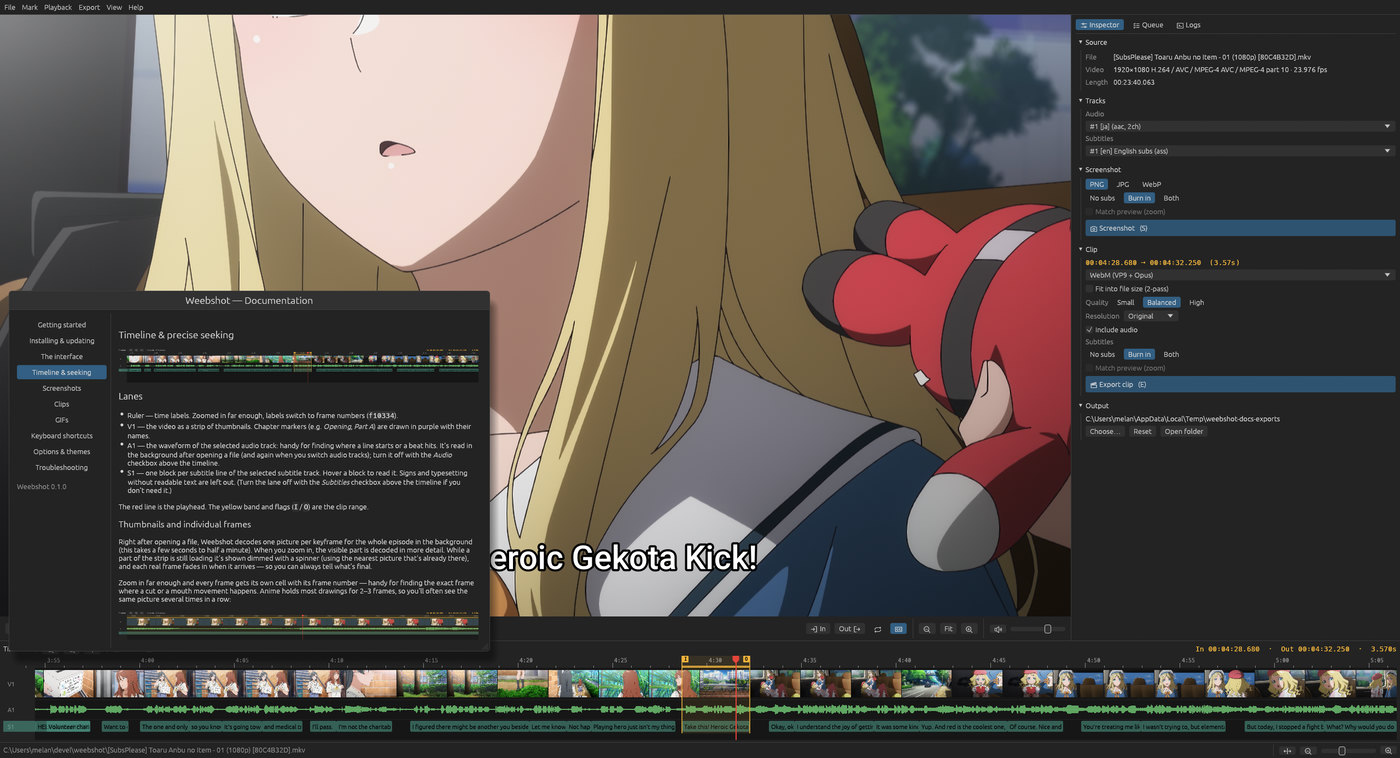
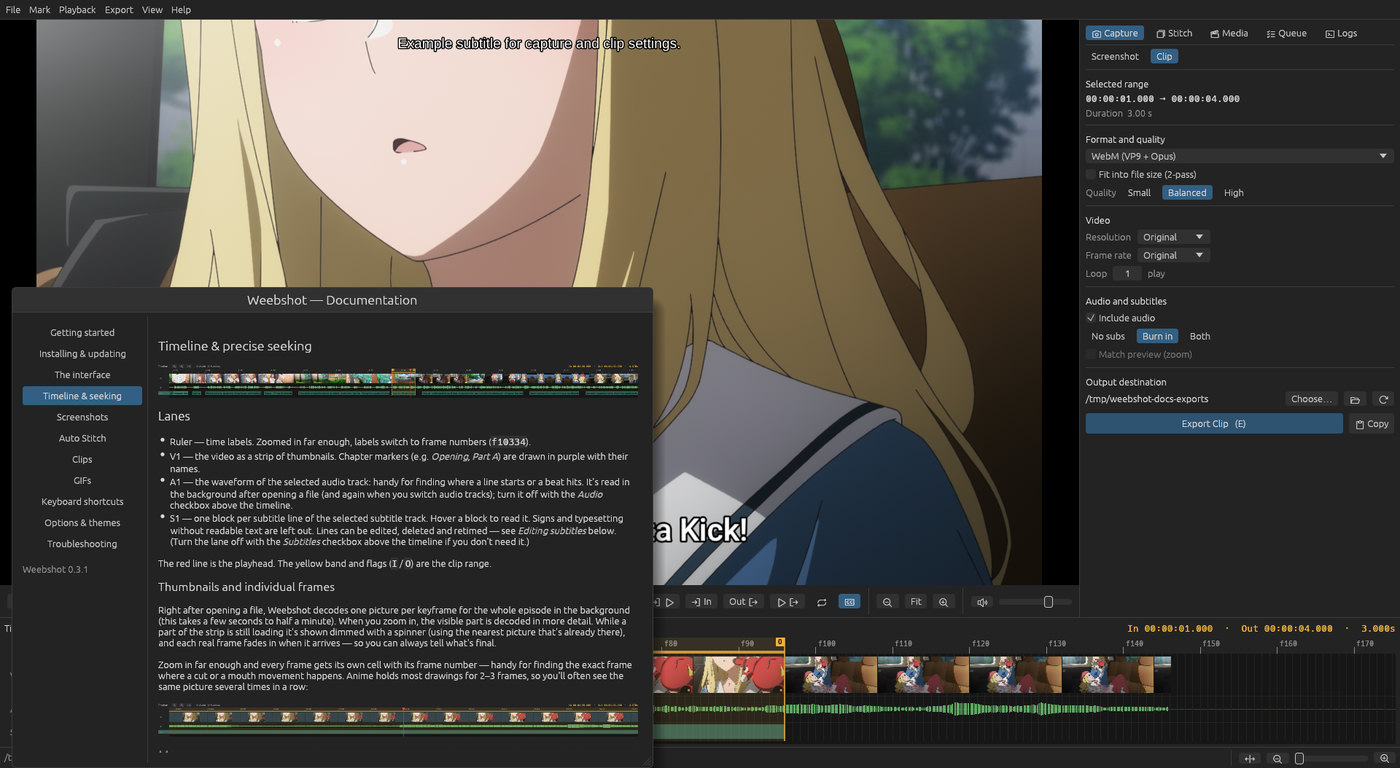
Document sidebar workflows, clipboard actions and stream copy

diff --git a/src/app/shots.rs b/src/app/shots.rs
@@ -182,7 +182,10 @@ impl App {
                 let path = script.out_dir.join(name);
                 let ppp = ctx.pixels_per_point();
                 match save(&img, rect, ppp, &path) {
-                    Ok(()) => log::info("docs", format!("saved {}", path.display())),
+                    Ok(bytes) => {
+                        ctx.include_bytes(format!("bytes://docs/images/{name}"), bytes);
+                        log::info("docs", format!("saved {}", path.display()));
+                    }
                     Err(e) => log::error("docs", format!("{}: {e}", path.display())),
                 }
                 self.advance();
@@ -247,8 +250,11 @@ impl App {
                 self.ui.capture_mode = super::sidebar::CaptureMode::Clip;
                 self.settings.clip_format = ClipFormat::Webm;
                 let mid = (a + b) / 2.0;
-                self.timeline
-                    .zoom_to(mid - 30.0, mid + 30.0, self.player.duration);
+                self.timeline.zoom_to(
+                    (mid - 30.0).max(0.0),
+                    (mid + 30.0).min(self.player.duration),
+                    self.player.duration,
+                );
             }
             Scene::TimelineFrames => {
                 self.timeline
@@ -257,8 +263,11 @@ impl App {
             Scene::MarkerDrag => {
                 // As if the Out flag were being dragged: the viewer shows the Out frame.
                 let mid = (a + b) / 2.0;
-                self.timeline
-                    .zoom_to(mid - 30.0, mid + 30.0, self.player.duration);
+                self.timeline.zoom_to(
+                    (mid - 30.0).max(0.0),
+                    (mid + 30.0).min(self.player.duration),
+                    self.player.duration,
+                );
                 let out = b - 1.0 / self.player.fps;
                 self.player.seek(out, true);
                 let shown = self.script.as_ref().map_or(mid, |s| s.shown);
@@ -274,8 +283,11 @@ impl App {
                 self.settings.side_tab = SideTab::Capture;
                 self.ui.capture_mode = super::sidebar::CaptureMode::Clip;
                 let mid = (a + b) / 2.0;
-                self.timeline
-                    .zoom_to(mid - 30.0, mid + 30.0, self.player.duration);
+                self.timeline.zoom_to(
+                    (mid - 30.0).max(0.0),
+                    (mid + 30.0).min(self.player.duration),
+                    self.player.duration,
+                );
             }
             Scene::Queue => {
                 self.settings.clip_format = ClipFormat::Webm;
@@ -310,7 +322,7 @@ fn save(
     crop: Option<Rect>,
     ppp: f32,
     path: &std::path::Path,
-) -> anyhow::Result<()> {
+) -> anyhow::Result<Vec<u8>> {
     let [w, h] = img.size;
     let rgba: Vec<u8> = img.pixels.iter().flat_map(|c| c.to_array()).collect();
     let mut full = image::RgbaImage::from_raw(w as u32, h as u32, rgba)
@@ -328,8 +340,9 @@ fn save(
         full = image::imageops::resize(&full, max_w, nh, image::imageops::FilterType::Lanczos3);
     }
     let rgb = image::DynamicImage::ImageRgba8(full).to_rgb8();
-    let file = std::fs::File::create(path)?;
-    let mut enc = image::codecs::jpeg::JpegEncoder::new_with_quality(file, 86);
+    let mut bytes = Vec::new();
+    let mut enc = image::codecs::jpeg::JpegEncoder::new_with_quality(&mut bytes, 86);
     enc.encode_image(&rgb)?;
-    Ok(())
+    std::fs::write(path, &bytes)?;
+    Ok(bytes)
 }

diff --git a/README.md b/README.md
@@ -21,7 +21,7 @@ left out, or both.
 
 ## What it makes
 
-The scene above, marked with one key press on its subtitle line and exported twice:
+The bundled demo scene is available as both a WebM clip and a GIF:
 
 <img src="docs/examples/gekota-kick.gif" alt="Example GIF: 'Take this! Heroic Gekota Kick!' with burned-in subtitles" width="480">
 
@@ -64,33 +64,44 @@ More in [Installing & updating](docs/install.md).
 - Exports can include subtitles, leave them out, or do both in one go (`…_subbed` / `…_raw`).
 
 ### Screenshots
+
 - Taken by the player itself, at full source resolution (not the window size), as PNG, JPG or
   WebP. `S` uses your current subtitle setting, `Ctrl+S` gives a clean frame.
+- **Copy** (`Ctrl+Shift+C`) copies the screenshot image. A gentle ding confirms a saved screenshot.
 
 ### Auto Stitch
 
 Reconstruct illustrations from horizontal, vertical, or small diagonal camera pans.
-Position the playhead inside a pan and choose **Export → Auto Stitch** (`Shift+S`),
+Use the **Stitch** sidebar tab for **Auto Stitch** (`Shift+S`) around the playhead,
 or mark In/Out and choose **Stitch Selection** (`Alt+Shift+S`). Preview, zoom, pan,
 and save the native-resolution result as PNG. See [Auto Stitch](docs/stitching.md)
 for settings, resource limits, and supported scenes. In/Out marks override automatic
 discovery; clear them to search around the playhead.
 
 ### Clips
+
 - WebM (VP9/Opus), MP4 (H.264/AAC), MKV, GIF, animated WebP.
+- MP4 and MKV offer **Encoding → Copy** to preserve the source video and selected audio.
+  Cuts follow source keyframes, subtitles are omitted, and the source codecs must fit the container.
+  See [Copy without re-encoding](docs/clips.md#copy-without-re-encoding).
+- **Copy** (`Shift+E`) exports the clip and copies the finished files to the clipboard.
 - Can target a file size (4/8/10/25/50 MB, e.g. for imageboards or Discord) with a 2-pass encode
   that lands just under it.
 - Can also repeat a clip's content a set number of times, for making loop videos.
 - GPU encoding via NVENC, Quick Sync or AMF, where available — found by actually testing each one
   rather than just checking for drivers.
-- 10-bit sources are converted so clips play back everywhere; cuts are frame-accurate.
+- Re-encoding converts 10-bit sources for broad playback compatibility and makes frame-accurate cuts.
 
 ### GIFs
+
 - Per-clip optimal palette, duplicate-frame dropping (anime is often drawn on 2s/3s),
   changed-area-only encoding, adjustable colors and dithering, and optional gifsicle lossy
   compression, with Small/Balanced/High presets.
 
 ### Other things
+
+- Resizable sidebar with **Capture**, **Stitch**, **Media**, **Queue**, and **Logs** tabs.
+  The selected tab is remembered, and Capture shares its output folder with Stitch.
 - Export queue runs in the background, with progress, retry, and a log of every ffmpeg command run.
 - Rebindable shortcuts, a few themes (Gruvbox, Nord, Catppuccin, Dracula), UI scaling.
 - Built-in documentation (F1) that reflects your current key bindings.
@@ -105,7 +116,9 @@ discovery; clear them to search around the playhead.
 
 ![Gruvbox theme](docs/images/theme-gruvbox.jpg)
 
-![Weebshot on macOS](docs/images/macos.jpg)
+![Earlier Weebshot interface on macOS](docs/images/macos.jpg)
+
+The macOS screenshot shows an earlier interface.
 
 </details>
 

diff --git a/docs/interface.md b/docs/interface.md
@@ -7,6 +7,8 @@
 - **Right** — the side panel with five tabs: **Capture**, **Stitch**, **Media**, **Queue** and **Logs**.
 - **Bottom** — the [timeline](timeline.md) and the status bar.
 
+Drag the sidebar's left edge to resize it. Its last selected tab is restored at launch;
+Capture opens by default. Switching tabs or capture modes preserves their settings.
 Options, Help, About and the update window open as separate windows.
 
 ## Status bar
@@ -48,18 +50,32 @@ The transport bar under it, from left to right:
 | Loop | Loop playback between In and Out |
 | Speaker + slider | Mute and volume |
 
-Every button shows its shortcut when you hover it.
+The transport switches to two rows when the viewer becomes narrower. At very narrow widths,
+each row can be scrolled horizontally to reach all controls.
+Every action button shows its shortcut when you hover it. Capture's primary actions also
+display their current shortcut on the button.
 
 ## Capture
 
 Switch between **Screenshot** and **Clip** to configure and export each type. Both use the same
-output destination as Stitch. The clipboard button copies the screenshot image or exports the
-clip and copies the finished files.
+output destination as Stitch. **Choose…** sets a directory, the folder button opens it,
+and Reset restores saving beside the source video. Hover a shortened path to see it in full.
+
+**Take Screenshot** ([S](key:Screenshot)) and **Export Clip** ([E](key:ExportClip)) save files.
+The adjacent **Copy** button copies a screenshot image ([Ctrl+Shift+C](key:CopyScreenshot))
+or exports the clip and copies its finished files ([Shift+E](key:CopyClip)).
+See [Screenshots](screenshots.md) and [Clips](clips.md) for options, including MP4/MKV
+stream copying.
 
 ## Stitch
 
-Mark a camera pan with In and Out, choose a method, and click **Stitch Selection**. The
-result window lets you review the stitch, adjust included frames, save it, or copy the image.
+Choose a method, then use **Auto Stitch** ([Shift+S](key:AutoStitch)) to discover the pan
+around the playhead, or mark In and Out and use **Stitch Selection**
+([Alt+Shift+S](key:StitchSelection)). Both actions use the marked range when both marks exist.
+**Advanced** contains the existing sampling and frame-spacing controls.
+
+The result window lets you review the stitch, adjust included frames, save it, or copy the image.
+See [Auto Stitch](stitching.md) for the complete workflow.
 
 ## Media
 
@@ -87,7 +103,8 @@ What Weebshot, mpv and ffmpeg reported, including the exact ffmpeg command lines
 Release builds open at **info+**. Select **all levels** to see debug details such as
 individual Auto Stitch alignment attempts.
 Filter by level or text; *Copy* puts the whole log on the clipboard (handy for bug reports).
-A red warning counter on the tab and in the status bar means an error was logged since you last looked.
+The Logs tab turns red when an error has been logged since you last looked. Hover it to see
+the unread count. The status bar also shows the count.
 
 ## Menus
 

diff --git a/docs/clips.md b/docs/clips.md
@@ -7,9 +7,17 @@
 3. Press [E](key:ExportClip). The export appears in the **Queue** tab, and a chime plays when the
    queue is done (see *Options → General → Sounds*).
 
+## Copy exported files to clipboard
+
+Click **Copy** beside Export Clip or press [Shift+E](key:CopyClip). Weebshot exports using
+the current settings, then copies the completed files so you can paste them into an
+application that accepts file attachments. With **Both** subtitle variants selected,
+both files are copied after they finish. A failed or cancelled export does not replace
+the clipboard with a partial set.
+
 ## Formats
 
-| Format | Video / audio | Good for |
+| Format | Re-encoded video / audio | Good for |
 | --- | --- | --- |
 | WebM | VP9 + Opus | Imageboards, Discord, the web. Best quality per MB. |
 | MP4 | H.264 + AAC | Plays everywhere (phones, Twitter/X, messengers). |
@@ -21,9 +29,12 @@ Re-encoded video is converted to 8-bit 4:2:0 for broad playback compatibility, w
 
 ## Copy without re-encoding
 
+![MP4 stream-copy settings in Capture → Clip](images/copy-options.jpg)
+
 For **MP4** and **MKV**, choose **Copy** under **Encoding** to preserve the original video
 and selected audio track. **Include audio** still controls whether that track is included.
 Copy mode uses the existing export queue and supports the Export Clip and clipboard actions.
+Re-encode is the default. The chosen mode is saved between launches.
 
 The cut begins at the preceding keyframe, so the exported clip may include footage before
 the In marker. File size and exact cut timing depend on the source. MP4 requires source
@@ -52,11 +63,12 @@ size at the bottom of the cropped picture (image subtitles are cropped along wit
 
 - **Resolution** — *Original* or a maximum height (1080p … 240p). Never upscales.
 - **Frame rate** — *Original* or a maximum (60 … 12 fps). Never adds frames above the source rate.
-- **Include audio** — uses the audio track selected under **Tracks**, downmixed to stereo.
+- **Include audio** — uses the audio track selected in **Media → Tracks**. Re-encoding
+  downmixes it to stereo; Copy preserves its original channels and codec.
 
 ## Loop
 
-Set **Loop** to repeat the clip's content 1–20 times in the output file — for turning a short cut
+With **Re-encode** selected, set **Loop** to repeat the clip's content 1–20 times in the output file — for turning a short cut
 into a loop video. Audio loops in sync with the video, and it works for every format. Before
 exporting, check the seam with [Ctrl+Space](key:PlayFromIn) or [Shift+Space](key:PlayToOut) — see
 [Timeline & seeking](timeline.md) (*Looping*).

diff --git a/docs/screenshots.md b/docs/screenshots.md
@@ -1,6 +1,6 @@
 # Screenshots
 
-Press [S](key:Screenshot) or click **Screenshot** in the inspector. To grab a clean frame without
+Press [S](key:Screenshot) or click **Take Screenshot** in **Capture → Screenshot**. To grab a clean frame without
 subtitles regardless of the setting below, press [Ctrl+S](key:ScreenshotClean) (also in the
 preview's right-click menu).
 
@@ -9,12 +9,22 @@ The frame is saved by the video player itself, so it is:
 - **exactly the frame you see**, at the video's full resolution (not the window size),
 - rendered with **the same subtitle renderer** as the preview, including fonts embedded in the MKV.
 
+A gentle ding confirms a saved screenshot. Adjust its volume or disable sounds in
+*Options → General → Sounds*.
+
+## Copy to clipboard
+
+Click **Copy** beside Take Screenshot or press [Ctrl+Shift+C](key:CopyScreenshot) to copy the
+current frame as an image. This follows the selected subtitles and preview crop.
+**Both** copies the burned-in version. The copied image can be pasted into an application
+that accepts images.
+
 ## Options
 
-- **Format** — PNG (lossless, default), JPG (quality 95), or WebP (quality 92).
+- **Format** — PNG (lossless, default), JPEG (quality 95), or WebP (quality 92).
 - **Subtitles**
   - *No subs* — clean frame.
-  - *Burn in* — with the subtitles shown in the preview.
+  - *Burn in* — with the selected subtitle track.
   - *Both* — saves two files at once, `…_subbed` and `…_raw`.
 
   Subtitle options are disabled when no subtitle track is selected.

diff --git a/docs/stitching.md b/docs/stitching.md
@@ -16,7 +16,8 @@ discovery. A single mark must be completed or cleared before either action runs.
 ## Automatic workflow
 
 Open a video, place the playhead inside a pan, clear any In/Out marks, and choose
-**Export → Auto Stitch**. The action is also in the video context menu. Weebshot
+**Auto Stitch** on the **Stitch** tab. It is also available under **Export → Auto Stitch**
+and in the video context menu. Weebshot
 searches backward and forward from the playhead, then opens a preview of the result.
 
 ## Stitching a specific range
@@ -38,6 +39,10 @@ to reset. The zoom multiplier is relative to the fitted view.
 **Save PNG…** in the bottom-right corner opens a destination dialog using your screenshot output directory
 (or the video's directory). Saving copies the exact native-resolution PNG behind
 the preview; the video remains untouched.
+
+**Copy** beside the save buttons, or [Alt+C](key:CopyStitch), copies the full-resolution
+stitch as an image for pasting into another application. Apply frame-selection changes
+before copying.
 
 **Save PSD…** writes a Photoshop document with the aligned frames on separate
 pixel layers and the overlap seams on editable layer masks. The two-vertical-layer

diff --git a/docs/getting-started.md b/docs/getting-started.md
@@ -17,7 +17,7 @@ animated WebP) out of anime episodes — with or without the subtitles burned in
 3. **Screenshot** — press [S](key:Screenshot). The current frame is saved at full resolution.
 4. **Clip** — set the start with [I](key:SetIn) and the end with [O](key:SetOut)
    (or press [X](key:MarkSubtitleLine) to mark exactly the subtitle line on screen), pick a format in the
-   inspector on the right, and press [E](key:ExportClip).
+   **Capture → Clip** on the right, and press [E](key:ExportClip).
 
 Exports run in the background; watch them in the **Queue** tab of the side panel (or the progress
 wheel in the status bar).
@@ -42,5 +42,5 @@ the same files as this documentation, and every shortcut shown matches your curr
 
 ## Where files go
 
-By default, next to the video you opened. Change it in the inspector's **Output** section or in
+By default, next to the video you opened. Change it under **Output destination** in Capture or Stitch or in
 *Options → General*, where you can also change the file name pattern.

diff --git a/CHANGELOG.md b/CHANGELOG.md
@@ -2,6 +2,17 @@
 
 ## Unreleased
 
+- Replaced Inspector with Capture, Stitch, Media, Queue, and Logs tabs. Capture separates
+  Screenshot and Clip settings. The selected tab is restored at launch.
+- Added dedicated Auto Stitch and Stitch Selection sidebar actions using the shared timeline range.
+- Added clipboard buttons and rebindable shortcuts for screenshot images, exported clip files,
+  and full-resolution stitch results.
+- Added MP4/MKV Copy mode to preserve compressed video and selected audio without re-encoding,
+  with keyframe cuts and source-codec compatibility requirements.
+- Kept capture shortcuts visible at narrow sidebar widths and made playback controls use
+  two rows with scrolling when space is limited.
+- Replaced the screenshot shutter sound with a gentle ding.
+
 - Added a stitch fallback for two side-by-side regions panning vertically at
   different speeds, with a preview warning to inspect the divider.
 - Added stitch method selection, adjustable frame spacing, and a manual divider

diff --git a/docs/options.md b/docs/options.md
@@ -21,8 +21,9 @@ Characters Windows doesn't allow in file names are replaced with `_`.
 
 ### Sounds
 
-A short sound plays when a screenshot is saved, when the export queue finishes, and when an export
-fails. Turn them off or change the volume in *Options → General*; the *Test* buttons play each one.
+A gentle single ding plays when a screenshot is saved. Separate chimes signal a finished
+export queue or an export failure. Turn sounds off or change their volume in
+*Options → General*; the *Test* buttons play each one.
 
 ### Updates
 

diff --git a/docs/gifs.md b/docs/gifs.md
@@ -22,9 +22,9 @@ The export runs in up to three steps (all visible in the Queue and Logs):
 
 ## Optimization options
 
-![GIF settings in the inspector](images/gif-options.jpg)
+![GIF settings in Capture → Clip](images/gif-options.jpg)
 
-Open *GIF optimization* in the Clip section. The **Small / Balanced / High** preset buttons set all
+Choose GIF in **Capture → Clip** and open *GIF optimization*. The **Small / Balanced / High** preset buttons set all
 of these at once.
 
 | Option | What it does |
